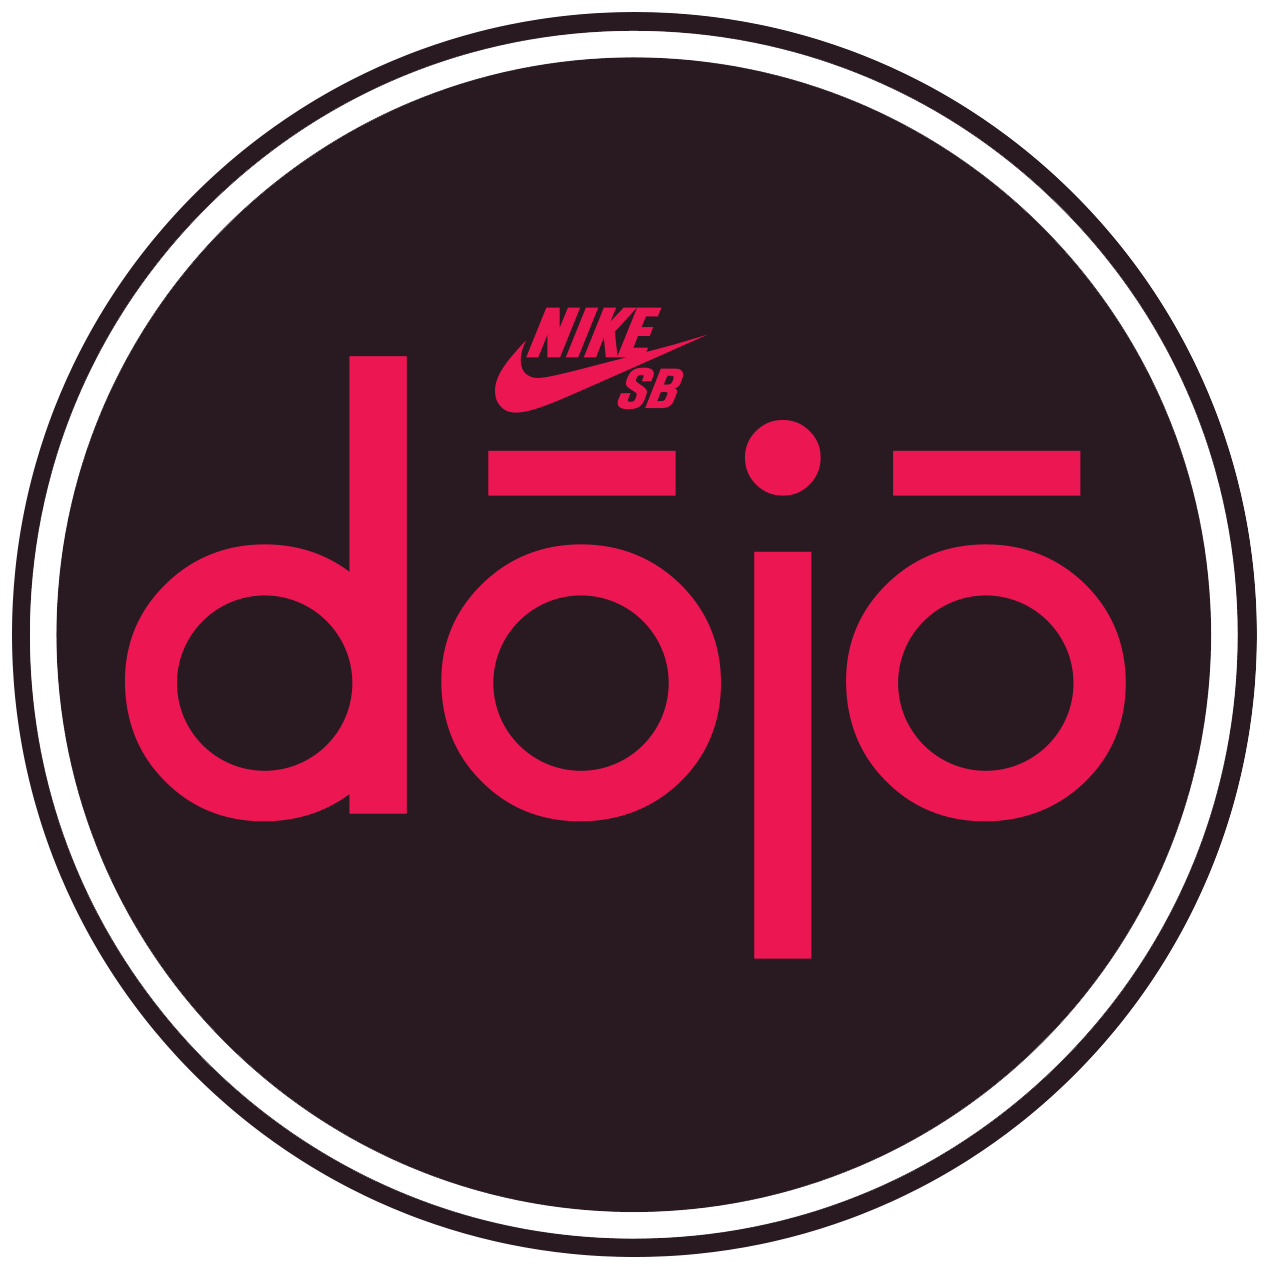
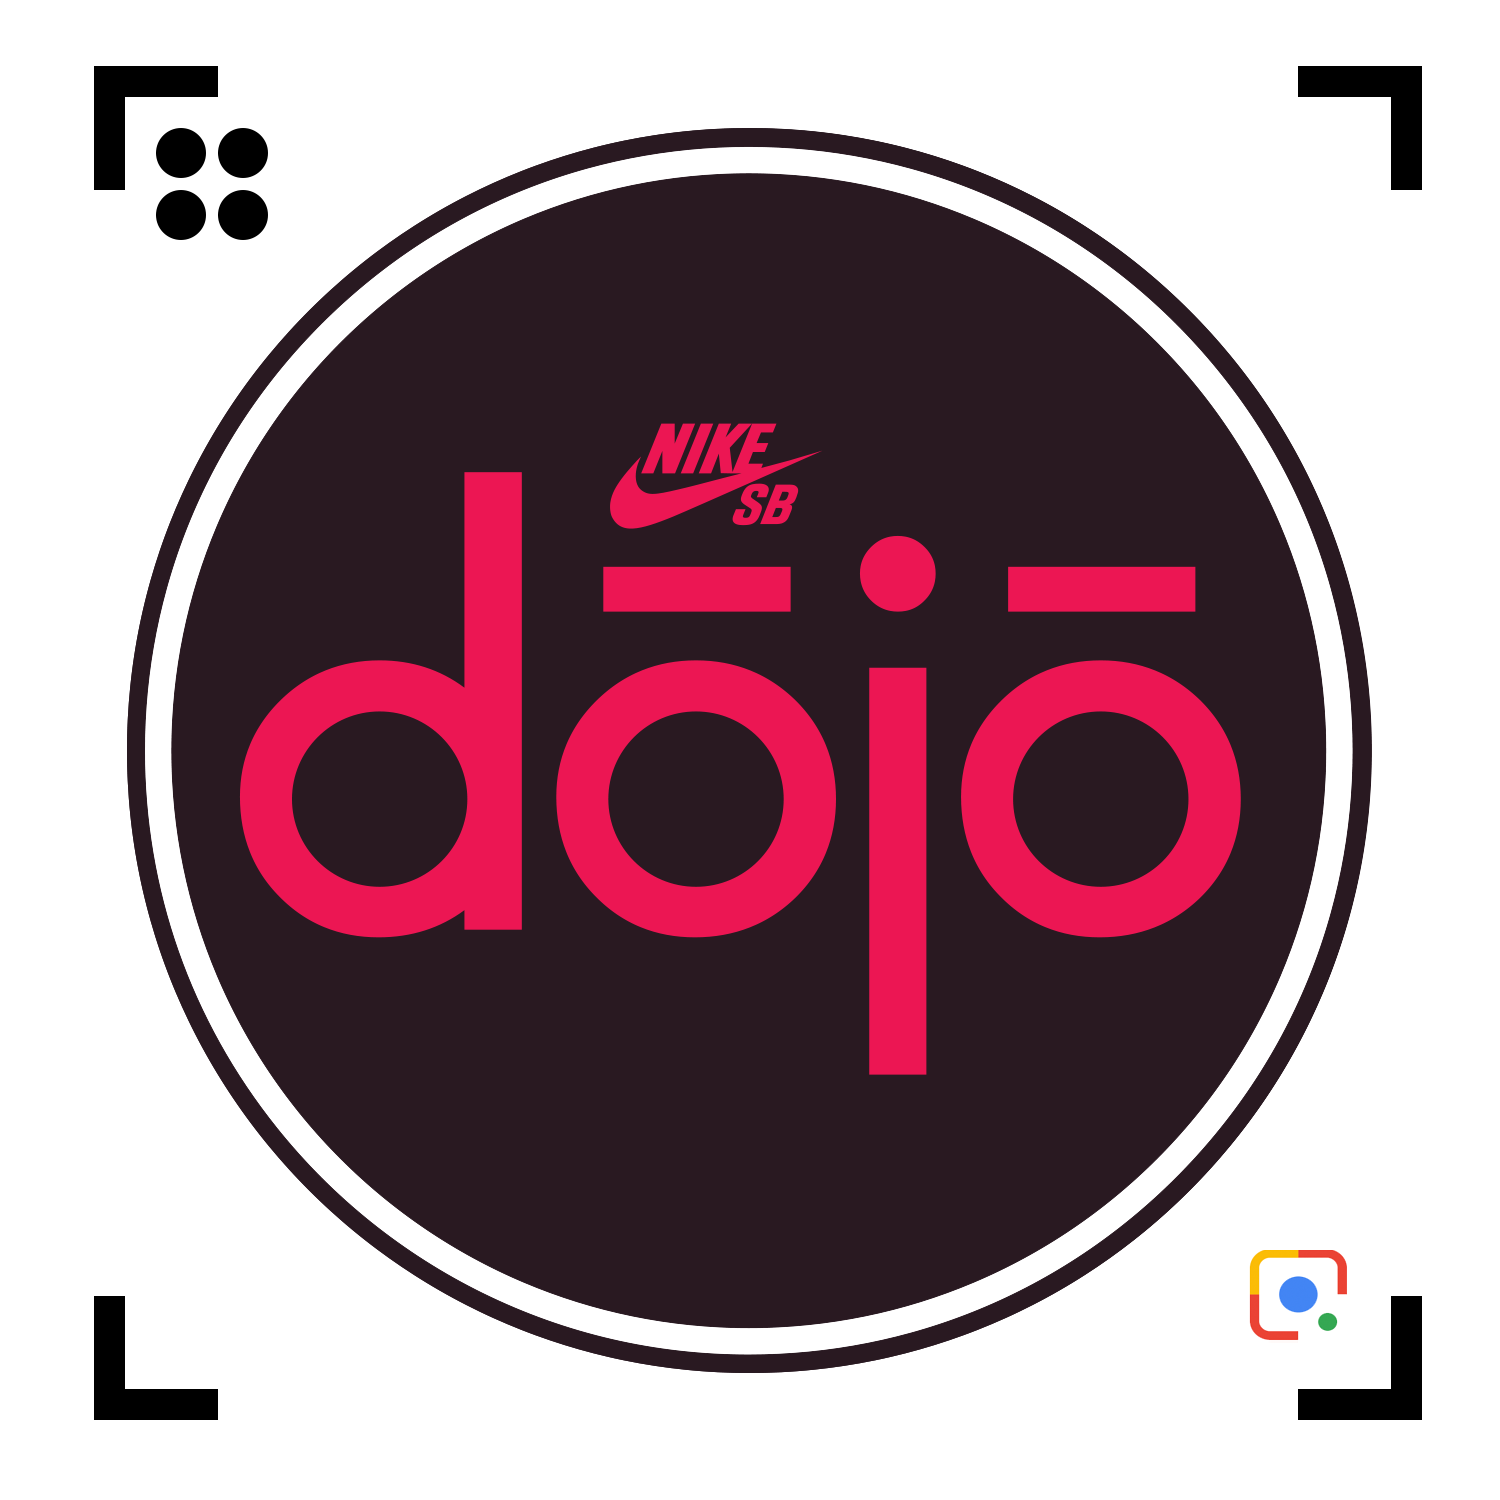
trying new marker

diff --git a/Skateboard/SBTarget6.html b/Skateboard/SBTarget6.html
@@ -1,0 +1,24 @@
+<script type="application/ld+json">
+{
+  "@context": "https://schema.googleapis.com",
+  "@type": "ARArtifact",
+  "arTarget": {
+    "@type": "ARImageTarget",
+    "name" : "LANDING YOUR FIRST HEELFLIP!",
+    "image": "http://pohungchen.com/WebViewTest/Skateboard/Markers/SB-6.png"
+
+  },
+  "arContent": {
+    "@type": "WebPage",
+    "name": "LANDING YOUR FIRST HEELFLIP!",
+    "contentUrl": "http://pohungchen.com/WebViewTest/Skateboard/PreviewImage/Preview2.png",
+    "image": "http://pohungchen.com/WebViewTest/Skateboard/PreviewImage/Preview2.png",
+    "url": "https://www.youtube.com/watch?v=jqS-eFS5g8Q",
+    "publisher": {
+      "@type": "Organization",
+      "name": "NIKE SB",
+      "logo": "http://pohungchen.com/WebViewTest/Skateboard/Nike_SB_logo.jpeg"
+    }
+  }
+}
+</script>
